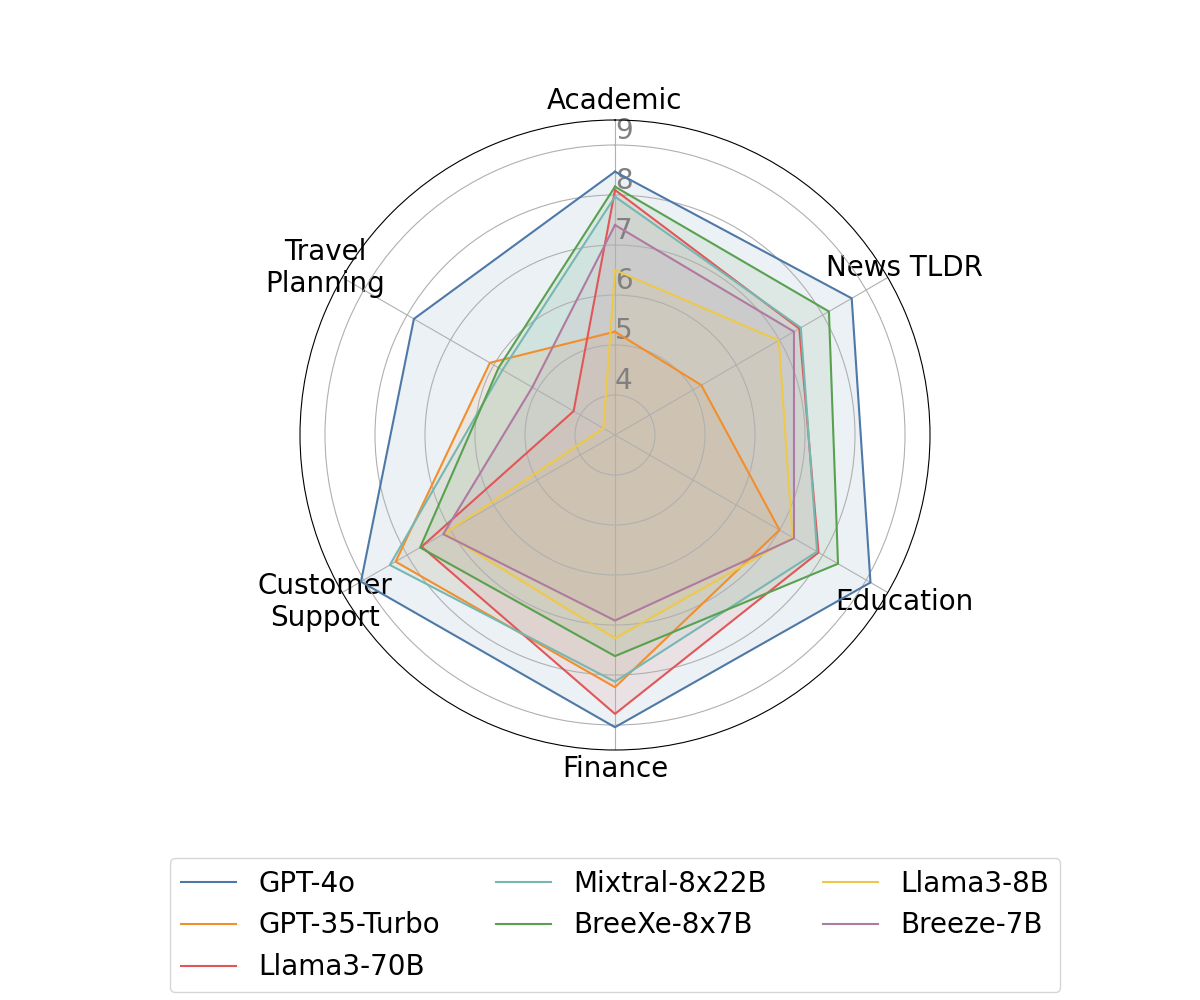
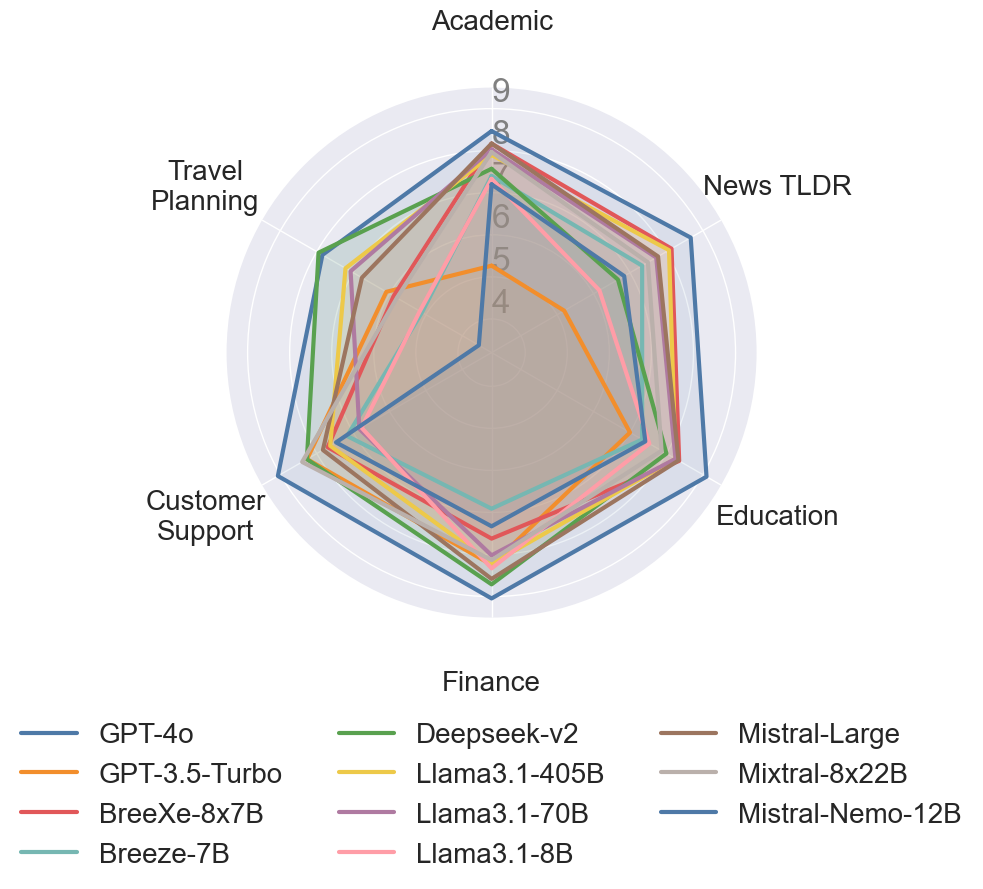
Update result figures

diff --git a/magic/scripts/get_spearman_correlation.py b/magic/scripts/get_spearman_correlation.py
@@ -5,21 +5,55 @@ import matplotlib.pyplot as plt
 import pandas as pd
 from itertools import product
 import seaborn as sns
+from scipy.stats import spearmanr
 
-# As of 240721
-lmsys_results = {
-    "GPT-4o": {"hard-all": 1288, "hard-en": 1280, "long-query": 1307},
-    "GPT-4-Turbo": {"hard-all": 1254, "hard-en": 1247, "long-query": 1268},
-    "GPT-35-Turbo": {"hard-all": 1124, "hard-en": 1117, "long-query": 1125},
-    "Gemma-2-27B-it": {"hard-all": 1199, "hard-en": 1185, "long-query": 1227},
-    "Gemma-2-9B-it": {"hard-all": 1169, "hard-en": 1155, "long-query": 1198},
-    "Llama3-70B": {"hard-all": 1197, "hard-en": 1212, "long-query": 1185},
-    "Llama3-8B": {"hard-all": 1137, "hard-en": 1144, "long-query": 1134},
-    "Mixtral-8x22B": {"hard-all": 1147, "hard-en": 1142, "long-query": 1154},
-    "Deepseek-v2": {"hard-all": 1241, "hard-en": 1233, "long-query": 1255},
-    "Yi-Large": {"hard-all": 1209, "hard-en": 1198, "long-query": 1224},
-}
+_EXCLUDE_MODELS = ["Gemma-2-27B", "Gemma-2-9B"]
 
+def cal_spearman(xvals, yvals, y_lower = None, y_upper = None):
+    if y_lower is None or y_upper is None:
+        return spearmanr(xvals, yvals)[0], None, None
+    
+    
+    # Number of bootstrap samples
+    bootstraps = 1000
+    correlations = np.zeros(bootstraps)
+
+    np.random.seed(0)  # For reproducibility
+
+    for i in range(bootstraps):
+        # Generate samples within the confidence intervals for y
+        y_sample = np.random.uniform(y_lower, y_upper)
+        
+        # Calculate Spearman correlation for this bootstrap sample
+        correlations[i] = spearmanr(xvals, y_sample)[0]
+
+    # Calculate the average correlation and confidence interval
+    mean_correlation = np.mean(correlations)
+    lower_ci = np.percentile(correlations, 2.5)
+    upper_ci = np.percentile(correlations, 97.5)
+    
+    return mean_correlation, lower_ci, upper_ci
+
+# # As of 240721
+# lmsys_results = {
+#     "GPT-4o": {"hard-all": 1288, "hard-en": 1280, "long-query": 1307},
+#     "GPT-4-Turbo": {"hard-all": 1254, "hard-en": 1247, "long-query": 1268},
+#     "GPT-35-Turbo": {"hard-all": 1124, "hard-en": 1117, "long-query": 1125},
+#     "Gemma-2-27B": {"hard-all": 1199, "hard-en": 1185, "long-query": 1227},
+#     "Gemma-2-9B": {"hard-all": 1169, "hard-en": 1155, "long-query": 1198},
+#     "Llama3-70B": {"hard-all": 1197, "hard-en": 1212, "long-query": 1185},
+#     "Llama3-8B": {"hard-all": 1137, "hard-en": 1144, "long-query": 1134},
+#     "Mixtral-8x22B": {"hard-all": 1147, "hard-en": 1142, "long-query": 1154},
+#     "Deepseek-v2": {"hard-all": 1241, "hard-en": 1233, "long-query": 1255},
+#     "Yi-Large": {"hard-all": 1209, "hard-en": 1198, "long-query": 1224},
+# }
+lmsys_results = pd.read_csv("lmsys_results_240807.csv")
+# lmsys_results = lmsys_results.set_index("model_name").to_dict()
+print(lmsys_results)
+lmsys_results = lmsys_results.set_index("model_name").transpose().to_dict()
+print(lmsys_results)
+
+#%%
 _result_csv_path = "evaluated_models.csv"
 
 result_df = pd.read_csv(_result_csv_path)
@@ -30,16 +64,38 @@ result_df = result_df.set_index("model_name")
 print(result_df)
 
 use_models = list(set(lmsys_results.keys()) & set(result_df.index))
+for em in _EXCLUDE_MODELS:
+    use_models.remove(em)
 print(use_models)
 
 # %%
 df_lmsys = pd.DataFrame.from_dict(lmsys_results).transpose()
 print(df_lmsys)
+
+lmsys_boards = df_lmsys.keys()
+print(lmsys_boards)
+
+df_lmsys_processed = df_lmsys.copy()
+for b in lmsys_boards:
+    vals = df_lmsys[b].apply(lambda x: float(x.split("(")[0]))
+    up_bounds = df_lmsys[b].apply(lambda x: float(x.split("(")[-1].split(',')[0]))
+    low_bounds = df_lmsys[b].apply(lambda x: float(x.split(",")[-1].split(')')[0]))
+    # print(vals, up_bounds, low_bounds)
+    
+    df_lmsys_processed[b] = vals
+    df_lmsys_processed[f"{b}_up"] = up_bounds
+    df_lmsys_processed[f"{b}_low"] = low_bounds
+
+print(df_lmsys_processed)
+# print(df_lmsys['all'].apply(lambda x: int(x.split("(")[0])))
+# print(df_lmsys['all'].apply(lambda x: int(x.split("(")[-1].split(',')[0])))
 # %%
 
-df_final = pd.concat([result_df.loc[use_models], df_lmsys.loc[use_models]], axis=1)
+df_final = pd.concat([result_df.loc[use_models], df_lmsys_processed.loc[use_models]], axis=1)
 print(df_final)
+#%%
 
+# print(df_final["all"].to_numpy())
 #%%
 
 # x_keys = ["average", "rs_avg", "rr_avg"]
@@ -50,16 +106,19 @@ print(df_final)
 
     
 # Assuming df_final is already defined and contains the data
-x_key = "hard-all"
-y_key = "average"
+y_key = "hard-all"
+x_key = "average"
 x_vals = df_final[x_key]
 y_vals = df_final[y_key]
+y_upper = df_final[f"{y_key}_up"]
+y_lower = df_final[f"{y_key}_low"]
 
 # Calculate Spearman correlation
-correlation, p_value = stats.spearmanr(x_vals, y_vals)
+# correlation, p_value = stats.spearmanr(x_vals, y_vals)
+correlation, ci_up, ci_low = cal_spearman(x_vals, y_vals, y_upper, y_lower)
 
-print(f"Spearman correlation coefficient: {correlation:.4f}")
-print(f"P-value: {p_value:.4f}")
+print(f"Spearman correlation coefficient: {correlation:.4f} (+{ci_up}, -{ci_low})")
+# print(f"P-value: {p_value:.4f}")
 
 # Create a scatter plot with improvements
 plt.figure(figsize=(12, 8))
@@ -81,94 +140,128 @@ plt.show()
 
 
 #%%
-x_key = "average"
-y_key = "hard-all"
-x_label = "RAD-Bench, score"
-y_label = "Chatbot Arena Rating\n(Hard prompts), score"
-title = 'Scatter Plot: Hard-All vs Average'
-# fontfamily = "Times New Roman"
-fontfamily = "Sans-serif" # "Serif" # "Helvetica"
-fontsize = 28
-fontweight="normal"
+def plot_corr_plot(chat_arena_category="hard-all"):
+    x_key = "average"
+    y_key = chat_arena_category
+    x_label = "RAD-Bench, score"
+    y_label = "Chatbot Arena Rating\n(Hard prompts), score"
+    title = 'Scatter Plot: Hard-All vs Average'
+    # fontfamily = "Times New Roman"
+    fontfamily = "Sans-serif" # "Serif" # "Helvetica"
+    fontsize = 28
+    fontweight="normal"
 
-# Set the style for a clean, professional look
-plt.style.use('seaborn-v0_8')
-sns.set_palette("deep")
-plt.rcParams['font.family'] = fontfamily  # You can change 'Arial' to your preferred font
+    # Set the style for a clean, professional look
+    plt.style.use('seaborn-v0_8')
+    sns.set_palette("deep")
+    plt.rcParams['font.family'] = fontfamily  # You can change 'Arial' to your preferred font
 
-# Create the plot
-fig, ax = plt.subplots(figsize=(10, 8))
+    # Create the plot
+    fig, ax = plt.subplots(figsize=(10, 8))
 
-# Plot the scatter points
-sns.scatterplot(x=x_key, y=y_key, data=df_final, s=120, ax=ax)
+    # Plot the scatter points
+    sns.scatterplot(x=x_key, y=y_key, data=df_final, s=120, ax=ax)
+    # Add error bars
+    # Add asymmetric error bars
+    yerr = [df_final[f'{y_key}_low'], df_final[f'{y_key}_up']]
+    ax.errorbar(df_final[x_key], df_final[y_key], yerr=yerr, fmt='none', 
+                ecolor='gray', elinewidth=2, capsize=4)
 
-# Add labels for each point
-for idx, row in df_final.iterrows():
-    ax.annotate(idx, (row[x_key], row[y_key]), 
-                xytext=(5, 5), textcoords='offset points', 
-                fontsize=24, fontweight=fontweight, fontfamily=fontfamily)
+    # Add labels for each point
+    for idx, row in df_final.iterrows():
+        xytext = (5,5)
+        if idx in {"Llama3.1-70B"}:
+            xytext = (-150, -25)
+            # xytext = (-150, 5)
+        elif idx in {"Llama3.1-405B"}:
+            xytext = (5,-25)
+        
+        ax.annotate(idx, (row[x_key], row[y_key]), 
+                    xytext=xytext, textcoords='offset points', 
+                    fontsize=24, fontweight=fontweight, fontfamily=fontfamily)
 
-# Adjust tick label font size
-ax.tick_params(axis='both', which='major', labelsize=20)
+    # Adjust tick label font size
+    ax.tick_params(axis='both', which='major', labelsize=20)
 
-# Customize the plot
-# ax.set_title(title, fontsize=16, fontweight=fontweight, fontfamily=fontfamily)
-ax.set_xlabel(x_label, fontsize=fontsize, fontfamily=fontfamily)
-ax.set_ylabel(y_label, fontsize=fontsize, fontfamily=fontfamily)
+    # Customize the plot
+    # ax.set_title(title, fontsize=16, fontweight=fontweight, fontfamily=fontfamily)
+    ax.set_xlabel(x_label, fontsize=fontsize, fontfamily=fontfamily)
+    ax.set_ylabel(y_label, fontsize=fontsize, fontfamily=fontfamily)
 
-# Add gridlines
-ax.grid(True, linestyle='--', alpha=0.99)
+    # Add gridlines
+    ax.grid(True, linestyle='--', alpha=0.99)
 
-# Adjust the plot range
-ax.set_ylim(1110, 1310)
-ax.set_xlim(6.2, 9.2)
+    # Adjust the plot range
+    ax.set_ylim(1090, 1310)
+    ax.set_xlim(6.2, 9.2)
 
-# Add a subtle background color
-ax.set_facecolor('#f0f0f0')
+    # Add a subtle background color
+    ax.set_facecolor('#f0f0f0')
 
-# Calculate and display correlation
-corr, _ = stats.pearsonr(df_final[x_key], df_final[y_key])
-ax.text(0.05, 0.95, f'Correlation: {corr:.2f}', transform=ax.transAxes, 
-        fontsize=fontsize, verticalalignment='top', fontweight=fontweight, fontfamily=fontfamily)
+    # Calculate and display correlation
+    # corr, ci_up, ci_low = cal_spearman(df_final[x_key], df_final[y_key], df_final[f"{y_key}_low"], df_final[f"{y_key}_up"])
+    # ax.text(0.05, 0.95, f'Correlation: {corr:.2f}', transform=ax.transAxes, 
+    #         fontsize=fontsize, verticalalignment='top', fontweight=fontweight, fontfamily=fontfamily)
+    corr, _ = stats.pearsonr(df_final[x_key], df_final[y_key])
+    ax.text(0.05, 0.95, f'Correlation: {corr:.2f}', transform=ax.transAxes, 
+            fontsize=fontsize, verticalalignment='top', fontweight=fontweight, fontfamily=fontfamily)
 
-# Adjust layout and display
-plt.tight_layout()
-plt.show()
-fig.savefig("../../asset/spearman_correlation.png", dpi=150)
+    # Adjust layout and display
+    plt.tight_layout()
+    plt.show()
+    if chat_arena_category == "hard-all":
+        fig.savefig(f"../../asset/spearman_correlation.png", dpi=150)
+    fig.savefig(f"../../asset/spearman_correlation_{chat_arena_category}.png", dpi=150)
+
+plot_corr_plot("all")
+plot_corr_plot("multi-turn")
+plot_corr_plot("hard-all")
+plot_corr_plot("hard-en")
+plot_corr_plot("long-query")
 
 # %%
 # Define the keys for x and y axes
-y_keys = ["average", "rs_avg", "rr_avg"]
-x_keys = ["hard-all", "hard-en", "long-query"]
+c_keys = ["average", "rs_avg", "rr_avg"]
+r_keys = ["all", "multi-turn", "hard-all", "hard-en", "long-query"]
 
 # Set up the subplots
-fig, axes = plt.subplots(len(y_keys), len(x_keys), figsize=(30, 26))
+fig, axes = plt.subplots(len(r_keys), len(c_keys), figsize=(10 * len(c_keys), 2 + 8 * len(r_keys)))
 fig.suptitle("Correlation Plots for Various Metrics", fontsize=fontsize)
 
-# Generate all combinations of x_keys and y_keys
-combinations = list(product(x_keys, y_keys))
+# # Generate all combinations of x_keys and y_keys
+combinations = list(product(r_keys, c_keys))
 
-# Plot each combination
-for i, ((x_key, y_key), ax) in enumerate(zip(combinations, axes.flatten())):
-    x = df_final[x_key]
-    y = df_final[y_key]
-    
+# # Plot each combination
+for i, ((r_key, c_key), ax) in enumerate(zip(combinations, axes.flatten())):
+# for r, y_key in enumerate(y_keys):
+#     for c, x_key in enumerate(x_keys):
+        # ax = axes[r][c]
+    y = df_final[r_key]
+    x = df_final[c_key]
+    y_lower = df_final[f"{r_key}_low"]
+    y_upper = df_final[f"{r_key}_up"]
     # Calculate Spearman correlation
     corr, p_value = stats.spearmanr(x, y)
+    # corr, ci_up, ci_low = cal_spearman(x, y, y_lower, y_upper)
     
     # Plot scatter
     ax.scatter(x, y)
     
     # Add labels for each point
     for j, model in enumerate(df_final.index):
-        ax.annotate(model, (x[j], y[j]), xytext=(5, 5), textcoords='offset points')
+        if model == "Llama3.1-70B":
+            ax.annotate(model, (x[j], y[j]), xytext=(-10, 5), textcoords='offset points')
+        else:
+            ax.annotate(model, (x[j], y[j]), xytext=(5, 5), textcoords='offset points')
     
     # Set labels and title
-    ax.set_xlabel(x_key)
-    ax.set_ylabel(y_key)
-    ax.set_title(f'{x_key} vs {y_key}')
+    ax.set_xlabel(c_key)
+    ax.set_ylabel(r_key)
+    ax.set_title(f'{r_key} vs {c_key}')
     
     # Add correlation and p-value info
+    # ax.text(0.05, 0.95, f'Corr: {corr:.2f} (+{ci_up:.2f}, -{ci_low:.2f})', 
+    #         transform=ax.transAxes, verticalalignment='top')
     ax.text(0.05, 0.95, f'Corr: {corr:.2f}\np-value: {p_value:.2f}', 
             transform=ax.transAxes, verticalalignment='top')
 

diff --git a/magic/scripts/plot_radar_plot.py b/magic/scripts/plot_radar_plot.py
@@ -11,6 +11,8 @@ from cycler import cycler
 
 _CUR_DIR=os.path.dirname(os.path.abspath(__file__))
 
+_exclude_models = ["Llama3-8B", "Llama3-70B", "Gemma-2-27B", "Gemma-2-9B"]
+
 _model_name_map = {
     "gpt-4o": "GPT-4o",
     "gpt-35-turbo-16k-4k": "GPT-3.5-Turbo",
@@ -61,6 +63,8 @@ def plot_radar_chart(averages, title,
 
 
     for model, tasks in averages.items():
+        if model in _exclude_models:
+            continue
         # model_name = _model_name_map[model]
         model_name = model
         values = [tasks[l] for l in labels]
@@ -94,7 +98,7 @@ def plot_radar_chart(averages, title,
 
     ax.set_ylim(3.2, 9.5)
 
-    plt.subplots_adjust(bottom=0.25)
+    plt.subplots_adjust(bottom=0.30)
 
     # plt.legend(loc='upper right', bbox_to_anchor=(0.1, 0.2), fontsize=legend_font_size)
     ax.legend(loc='upper center', bbox_to_anchor=(0.5, -0.15), 
